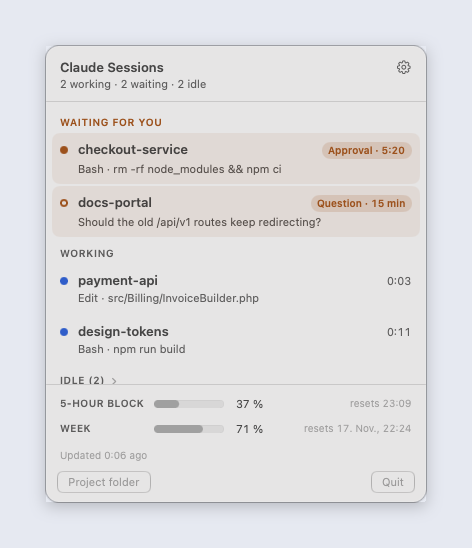
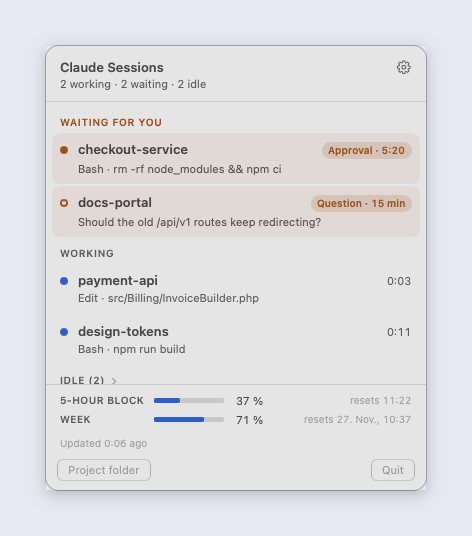
Draw the usage bars proportionally
ProgressView's linear style rounds both ends of its fill. On the 70 point bar in
the panel that cap is wider than the fill itself for anything below roughly a
tenth, so 3 % and 10 % arrived as the same small blob next to two very different
numbers.

The bar is now two rounded rectangles with the fill set to percent times width,
with a 1.5 point floor so that 1 % does not vanish entirely. The context window
bar in the popover keeps ProgressView: it spans the full width, where the cap
costs nothing.

diff --git a/Sources/ClaudeMonitor/UI/PanelView.swift b/Sources/ClaudeMonitor/UI/PanelView.swift
@@ -227,10 +227,7 @@ struct PanelView: View {
                 .frame(width: 86, alignment: .leading)
 
             if let percent {
-                ProgressView(value: min(1, Double(percent) / 100))
-                    .progressViewStyle(.linear)
-                    .tint(percent >= 80 ? Theme.waiting : Theme.working)
-                    .frame(width: 70)
+                meter(percent)
                 Text("\(percent) %")
                     .font(.system(size: 11))
                     .monospacedDigit()
@@ -254,6 +251,23 @@ struct PanelView: View {
         }
         .accessibilityElement(children: .combine)
         .accessibilityLabel("\(label): \(percent.map { "\($0) percent of plan" } ?? "\(Fmt.tokens(tokens)) tokens")")
+    }
+
+    /// Drawn here rather than with `ProgressView`: AppKit rounds both ends of the linear
+    /// style, and on a short bar that cap swallows the whole fill -- 3 % and 10 % came out
+    /// as the same small blob.
+    private func meter(_ percent: Int) -> some View {
+        let width: CGFloat = 70
+        let fraction = min(1, max(0, Double(percent) / 100))
+        return ZStack(alignment: .leading) {
+            RoundedRectangle(cornerRadius: 1.5)
+                .fill(.quaternary)
+            RoundedRectangle(cornerRadius: 1.5)
+                .fill(percent >= 80 ? Theme.waiting : Theme.working)
+                // A percent that works out thinner than a hairline still has to show.
+                .frame(width: max(fraction * width, percent > 0 ? 1.5 : 0))
+        }
+        .frame(width: width, height: 5)
     }
 
     private var footer: some View {

diff --git a/CHANGELOG.md b/CHANGELOG.md
@@ -1,5 +1,12 @@
 # Changelog
 
+## 1.0.4
+
+- The usage bars are proportional again. `ProgressView`'s linear style rounds both ends of
+  its fill, and on a bar 70 points wide that cap is wider than everything below about a
+  tenth: 3 % and 10 % were drawn as the same small blob. The panel now draws the bar
+  itself, so the fill is exactly as long as the percentage says.
+
 ## 1.0.3
 
 - The plan percentages are live again, and this time they are Anthropic's own. Claude Code
